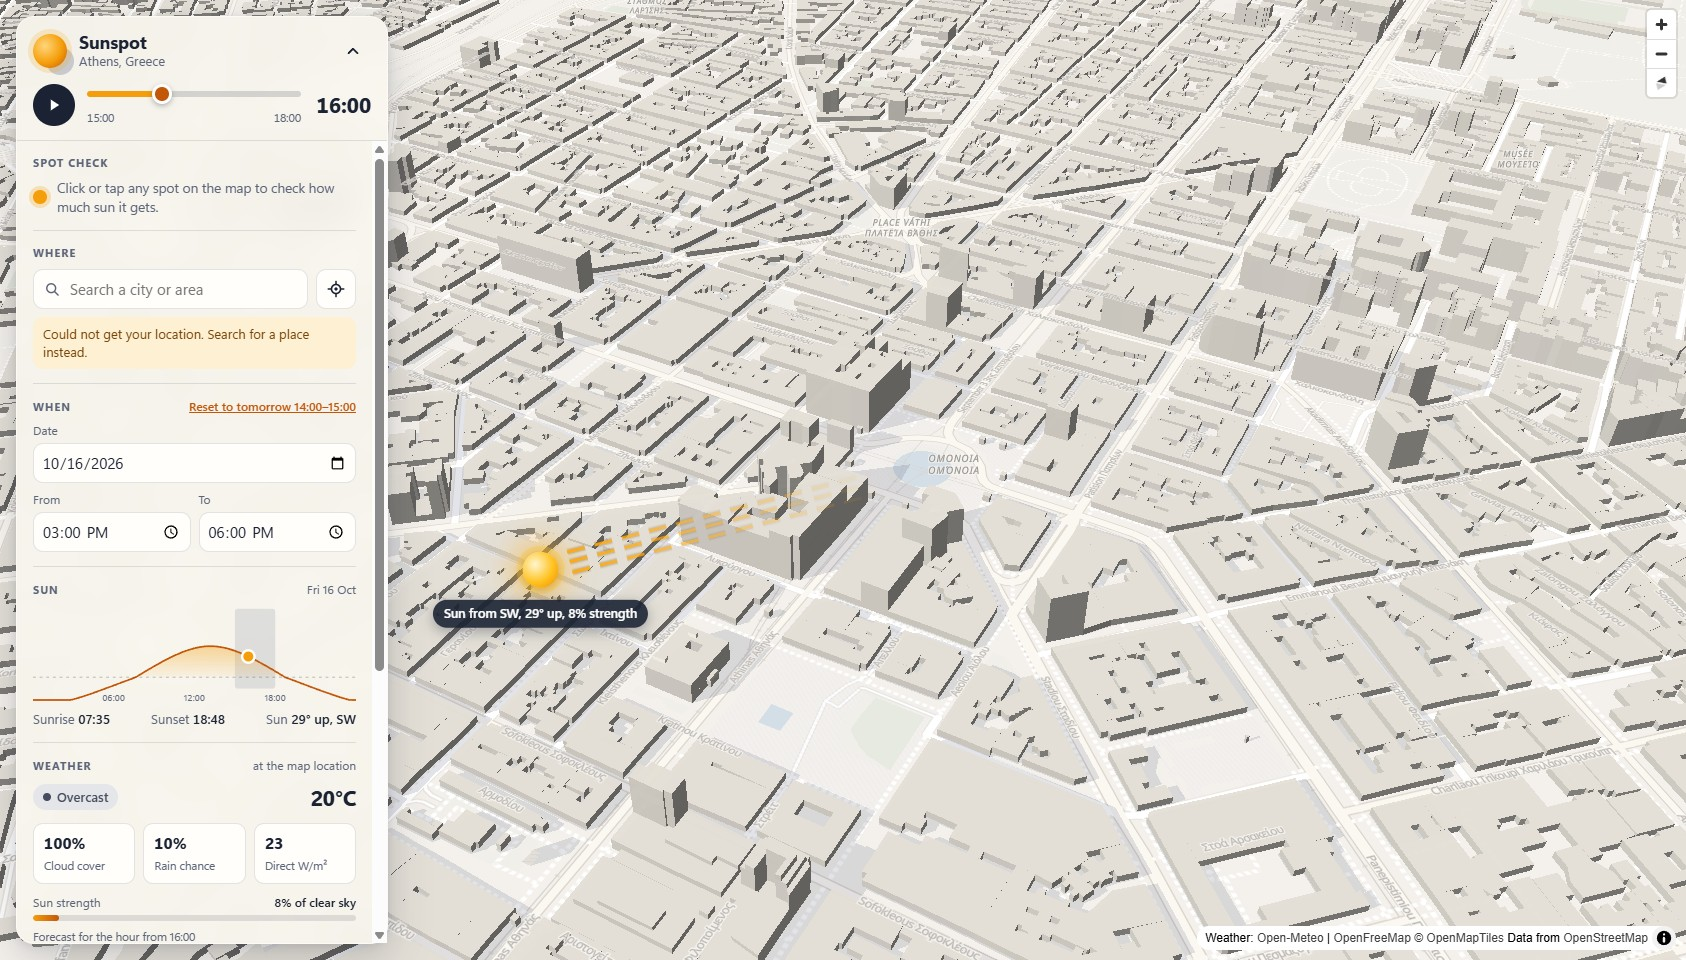
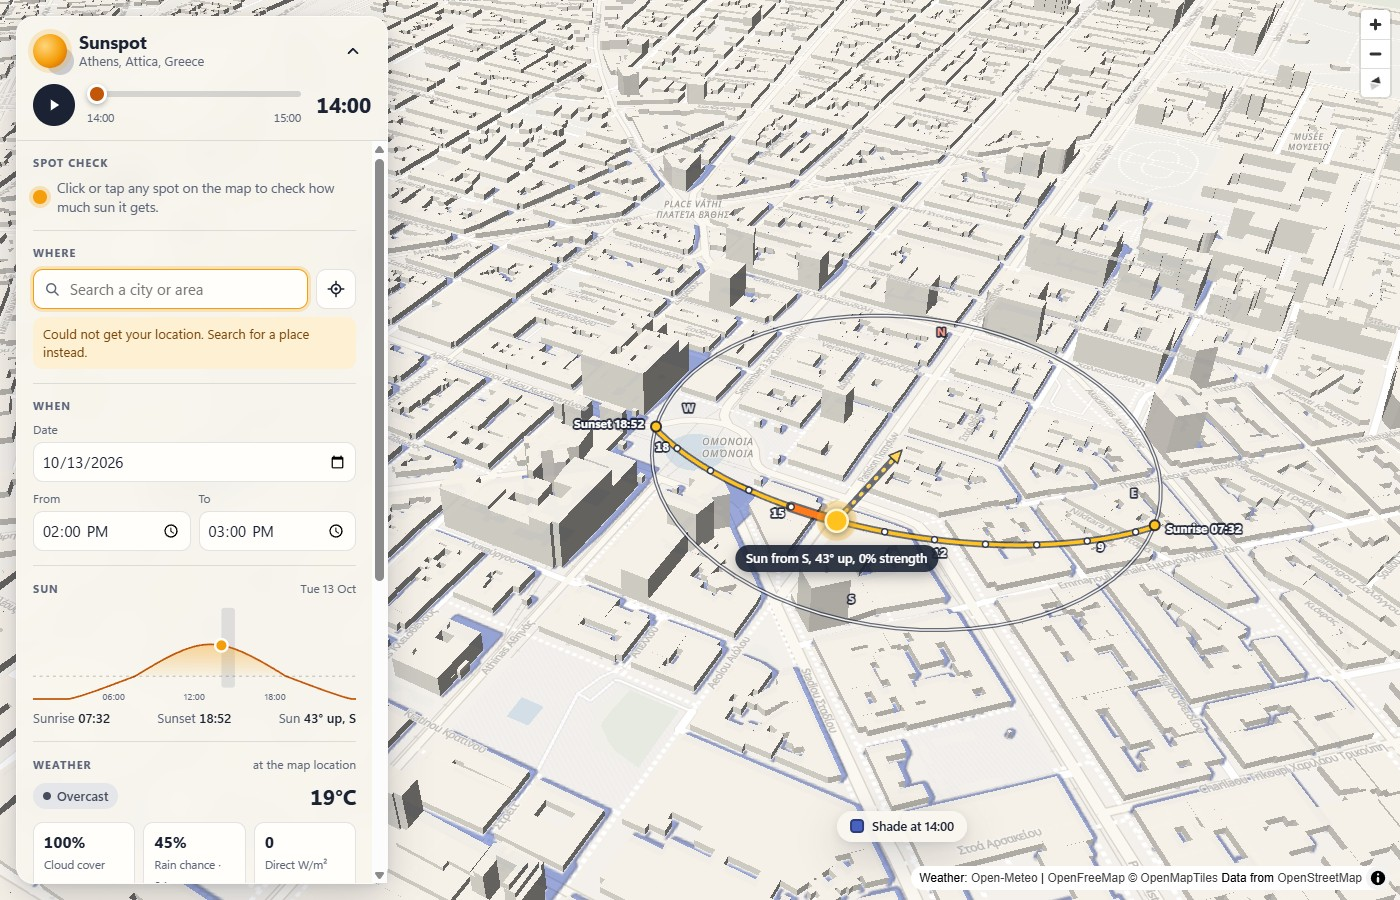
README screenshots: blue shade, sun path and sun-hours map

diff --git a/README.md b/README.md
@@ -42,9 +42,13 @@ service, so it costs nothing to host.
 
 | Map | Satellite |
 | --- | --- |
-| ![Drawn basemap with sun direction indicator](docs/screenshots/map-omonia.jpg) | ![Satellite basemap with computed shadows](docs/screenshots/satellite-omonia.jpg) |
+| ![Drawn basemap with blue shade and the sun path](docs/screenshots/map-omonia.jpg) | ![Satellite basemap with blue shade and the sun path](docs/screenshots/satellite-omonia.jpg) |
 
-Omonia, Athens, same view and time in both basemaps.
+Omonia, Athens, same view and time (14:00) in both basemaps.
+
+![Sun-hours map on the satellite basemap](docs/screenshots/sun-hours-omonia.jpg)
+
+The same view with **Sun hours** on, for an 11:00 to 17:00 window.
 
 ## How it works
 
